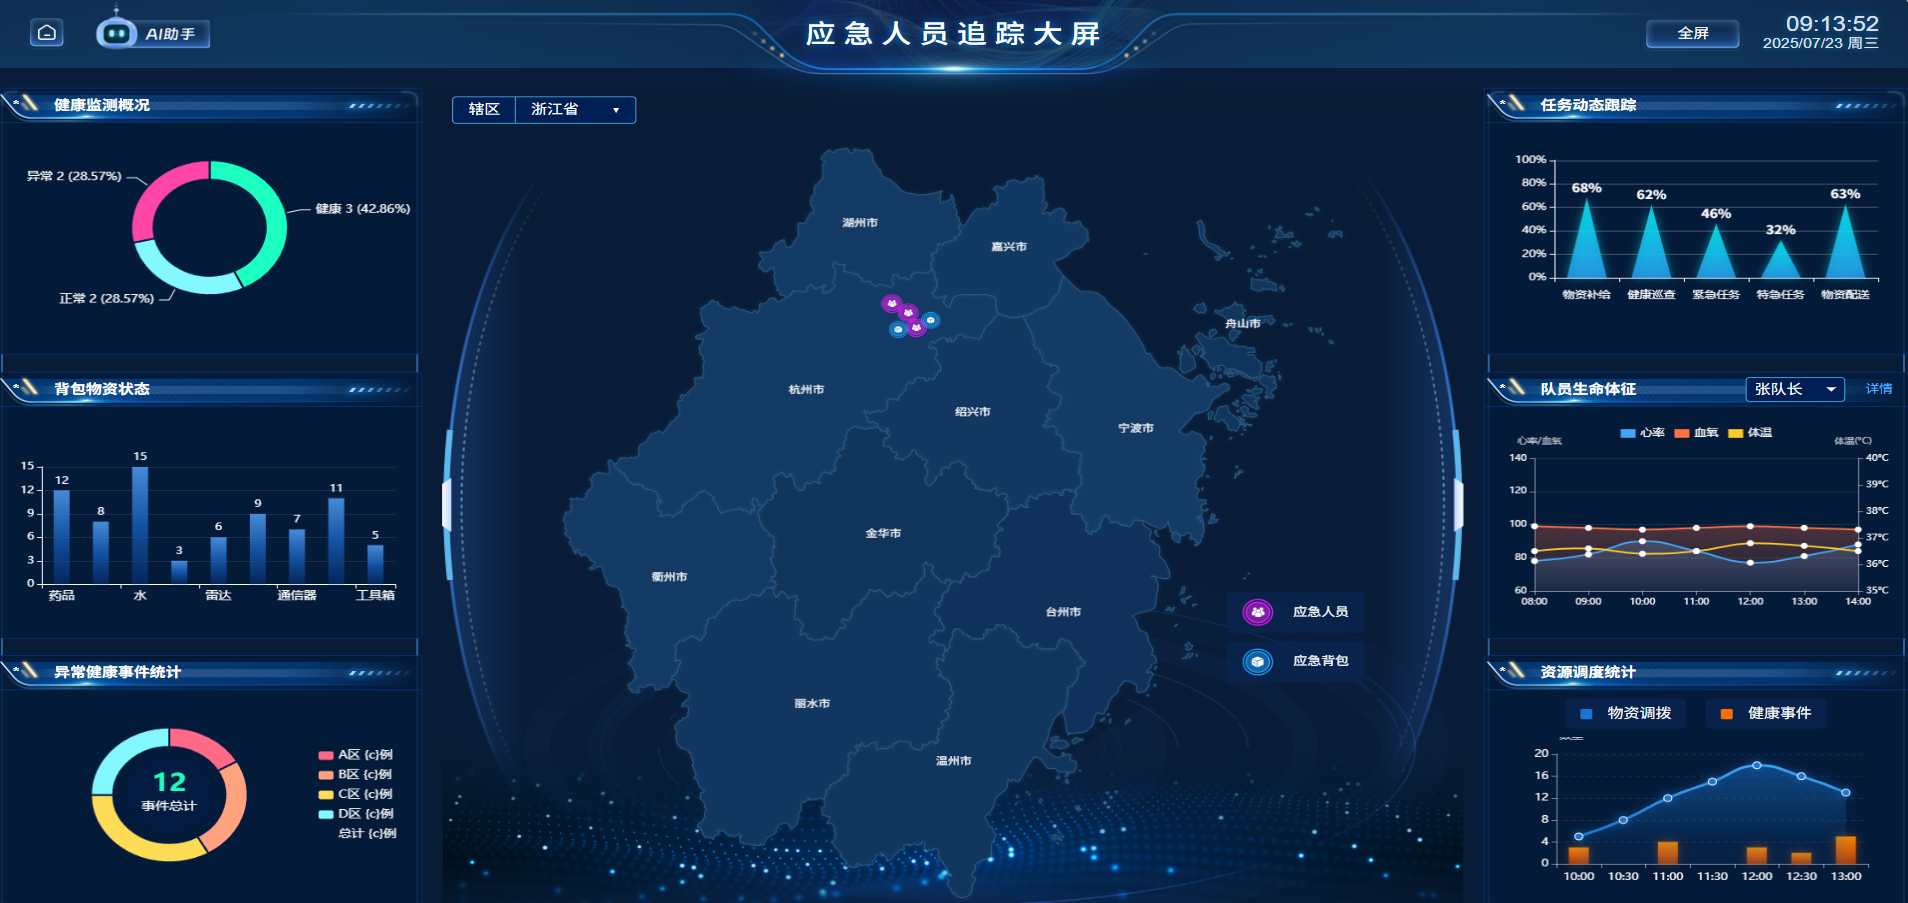
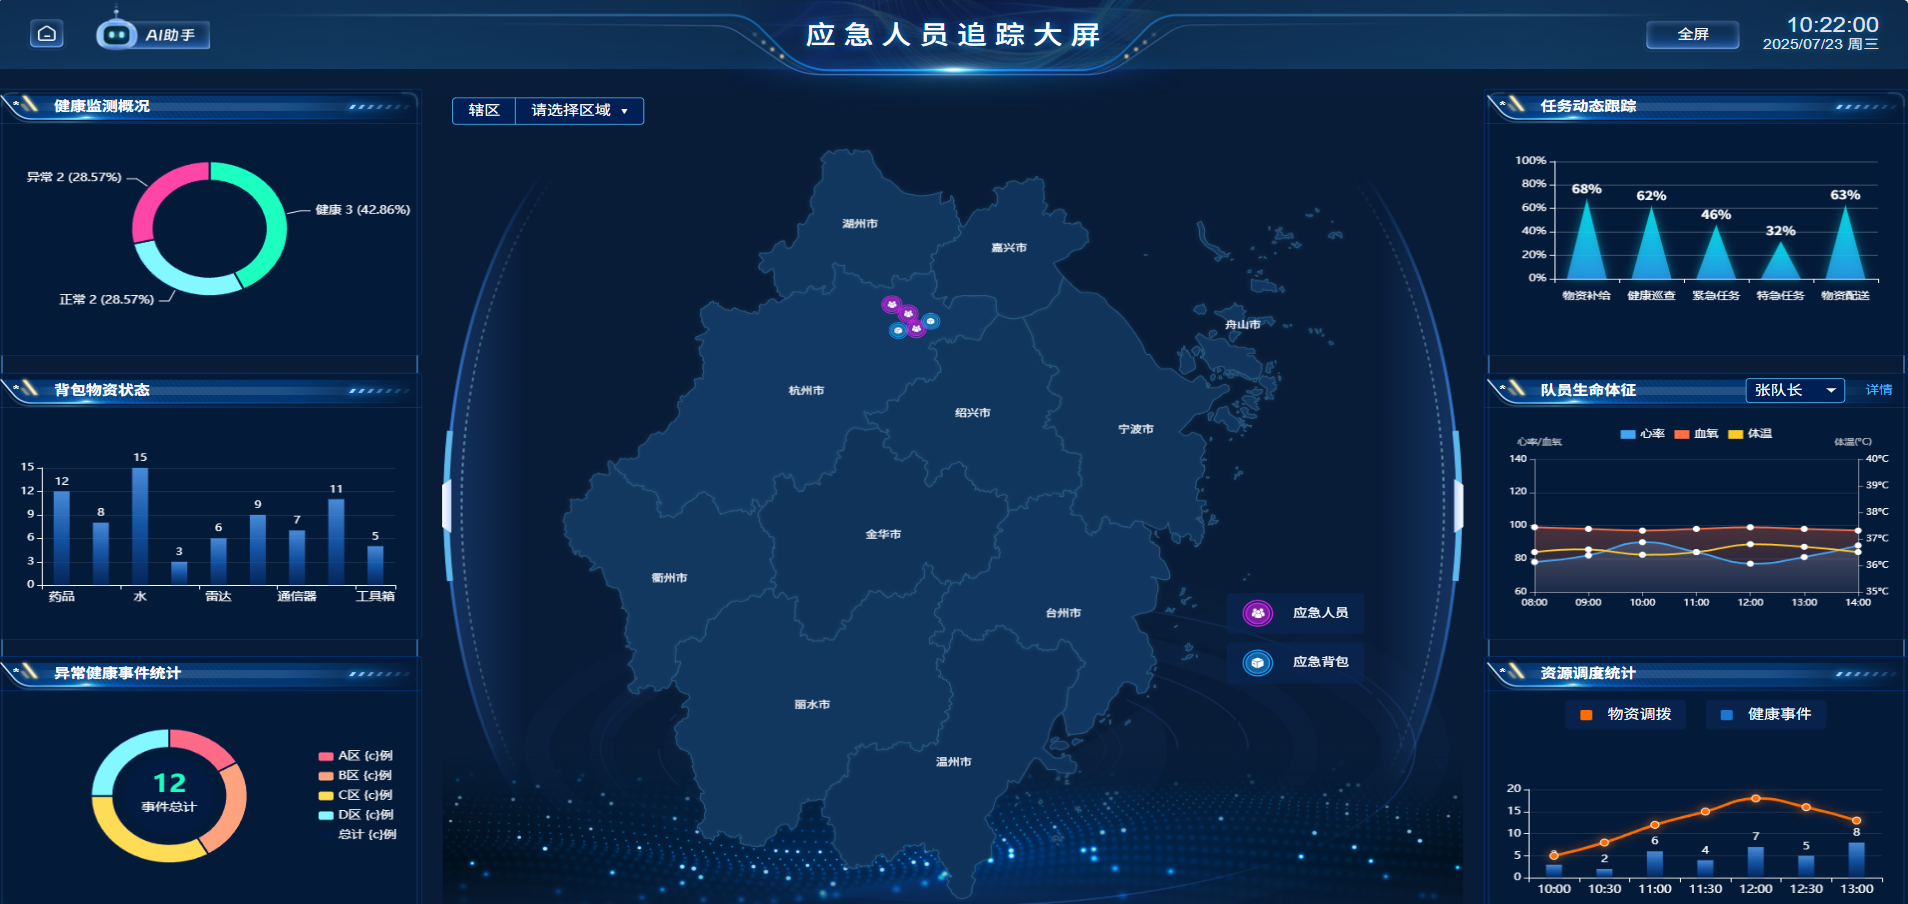
更新 VitalSignsModal 和 rightPanel 组件的样式与功能；在 rightPanel.scss 中增加黄色配色选项；替换截图。

diff --git a/src/views/components/rightPanel.vue b/src/views/components/rightPanel.vue
@@ -70,11 +70,11 @@
       <div class="chart-content">
         <div class="legend-info">
           <div class="legend-item">
-            <span class="legend-color blue"></span>
+            <span class="legend-color orange"></span>
             <span>物资调拨</span>
           </div>
           <div class="legend-item">
-            <span class="legend-color orange"></span>
+            <span class="legend-color blue"></span>
             <span>健康事件</span>
           </div>
         </div>
@@ -560,145 +560,87 @@ export default {
       if (this.$refs.resourceChart) {
         this.resourceChart = this.$echarts.init(this.$refs.resourceChart)
         const option = {
-          backgroundColor: 'transparent',
-          grid: {
-            top: 20,
-            left: 40,
-            right: 30,
-            bottom: 20,
-            containLabel: true
-          },
           tooltip: {
             trigger: 'axis',
             axisPointer: {
               type: 'shadow'
-            },
-            backgroundColor: 'rgba(0,19,52,0.8)',
-            borderColor: 'rgba(0,209,255,0.3)',
-            textStyle: {
-              color: '#fff'
-            },
-            formatter: function(params) {
-              let result = `${params[0].name}<br/>`;
-              params.forEach(param => {
-                let marker = `<span style="display:inline-block;margin-right:5px;border-radius:2px;width:10px;height:10px;background-color:${param.color};"></span>`;
-                result += `${marker} ${param.seriesName}: ${param.value}${param.seriesName === '健康事件' ? '个' : '批'}<br/>`;
-              });
-              return result;
             }
+          },
+          grid: {
+            left: '3%',
+            right: '4%',
+            bottom: '3%',
+            containLabel: true
           },
           xAxis: {
             type: 'category',
             data: ['10:00', '10:30', '11:00', '11:30', '12:00', '12:30', '13:00'],
             axisLine: {
               lineStyle: {
-                color: 'rgba(255, 255, 255, 0.5)'
+                color: '#ffffff'
               }
             },
             axisLabel: {
               color: '#ffffff',
-              fontSize: 12,
-              margin: 10
+              fontSize: 13
             }
           },
-          yAxis: [
-            {
-              type: 'value',
-              name: '数量',
-              nameTextStyle: {
-                color: 'rgba(255, 255, 255, 0.7)',
-                fontSize: 12,
-                padding: [0, 0, 0, 30]
-              },
-              min: 0,
-              max: 20,
-              interval: 4,
-              axisLine: {
-                lineStyle: {
-                  color: 'rgba(255, 255, 255, 0.5)'
-                }
-              },
-              axisLabel: {
-                color: '#ffffff',
-                fontSize: 12
-              },
-              splitLine: {
-                lineStyle: {
-                  color: 'rgba(255, 255, 255, 0.1)',
-                  type: 'dashed'
-                }
+          yAxis: {
+            type: 'value',
+            max: 20,
+            axisLine: {
+              lineStyle: {
+                color: '#ffffff'
               }
+            },
+            splitLine: {
+              lineStyle: {
+                color: 'rgba(255, 255, 255, 0.1)'
+              }
+            },
+            axisLabel: {
+              color: '#ffffff'
             }
-          ],
+          },
           series: [
             {
               name: '物资调拨',
               type: 'line',
-              z: 10,
               data: [5, 8, 12, 15, 18, 16, 13],
               smooth: true,
               symbol: 'circle',
               symbolSize: 8,
               itemStyle: {
-                color: '#1976d2',
+                color: '#ff6d00', // orange
                 borderColor: '#fff',
                 borderWidth: 1,
-                shadowColor: 'rgba(25, 118, 210, 0.8)',
+                shadowColor: 'rgba(255, 109, 0, 0.8)',
                 shadowBlur: 10
               },
               lineStyle: {
-                color: {
-                  type: 'linear',
-                  x: 0,
-                  y: 0,
-                  x2: 0,
-                  y2: 1,
-                  colorStops: [{
-                    offset: 0,
-                    color: '#42a5f5'
-                  }, {
-                    offset: 1,
-                    color: '#1976d2'
-                  }]
-                },
+                color: '#ff6d00',
                 width: 3,
-                shadowColor: 'rgba(25, 118, 210, 0.5)',
+                shadowColor: 'rgba(255, 109, 0, 0.5)',
                 shadowBlur: 10
               },
-              areaStyle: {
-                color: new this.$echarts.graphic.LinearGradient(0, 0, 0, 1, [
-                  { offset: 0, color: 'rgba(25, 118, 210, 0.6)' },
-                  { offset: 0.8, color: 'rgba(25, 118, 210, 0.1)' }
-                ]),
-                shadowColor: 'rgba(25, 118, 210, 0.2)',
-                shadowBlur: 20
-              }
+              // no areaStyle
             },
             {
               name: '健康事件',
               type: 'bar',
-              barWidth: '20px',
-              data: [3, 0, 4, 0, 3, 2, 5],
+              data: [3, 2, 6, 4, 7, 5, 8],
+              barWidth: '16px',
               itemStyle: {
                 color: new this.$echarts.graphic.LinearGradient(0, 0, 0, 1, [
-                  { offset: 0, color: 'rgba(255, 145, 0, 0.9)' },
-                  { offset: 0.5, color: 'rgba(255, 109, 0, 0.75)' },
-                  { offset: 1, color: 'rgba(230, 81, 0, 0.6)' }
-                ]),
-                borderRadius: [4, 4, 0, 0],
-                shadowColor: 'rgba(255, 109, 0, 0.5)',
-                shadowBlur: 10
+                  { offset: 0, color: 'rgba(88,167,255,0.8)' },
+                  { offset: 0.5, color: 'rgba(25,102,198,0.75)' },
+                  { offset: 1, color: 'rgba(6,45,110,0.64)' }
+                ])
               },
-              emphasis: {
-                itemStyle: {
-                  color: new this.$echarts.graphic.LinearGradient(0, 0, 0, 1, [
-                    { offset: 0, color: 'rgba(255, 145, 0, 1)' },
-                    { offset: 0.5, color: 'rgba(255, 109, 0, 0.85)' },
-                    { offset: 1, color: 'rgba(230, 81, 0, 0.7)' }
-                  ]),
-                  shadowColor: 'rgba(255, 109, 0, 0.8)',
-                  shadowBlur: 20
-                }
+              label: {
+                show: true,
+                position: 'top',
+                color: '#ffffff'
               }
             }
           ]

diff --git a/src/assets/scss/vitalSignsModal.scss b/src/assets/scss/vitalSignsModal.scss
@@ -24,14 +24,14 @@
       max-width: 900px;
       max-height: 80vh;
       background: #ffffff;
-      border: 1px solid rgba(0, 209, 255, 0.5);
-      border-radius: 8px;
-      box-shadow: 0 0 20px rgba(0, 209, 255, 0.3);
+      border-radius: 16px; // 优化圆角
+      box-shadow: 0 8px 32px rgba(36, 124, 183, 0.15); // 添加阴影
       position: relative;
       z-index: 1001;
       display: flex;
       flex-direction: column;
       overflow: hidden;
+      border: 1.5px solid #247CB7; // 增加边框
     }
     
     .modal-header {
@@ -39,8 +39,6 @@
       justify-content: space-between;
       align-items: center;
       padding: 15px 20px;
-      border-bottom: 1px solid rgba(0, 209, 255, 0.3);
-      background: #f5f5f5;
       
       .modal-title {
         color: #333333;
@@ -103,11 +101,15 @@
         .vital-signs-table {
           width: 100%;
           border-collapse: collapse;
+          background: #fafdff; // 优化表格背景
+          border-radius: 8px;
+          overflow: hidden;
+          box-shadow: 0 2px 8px rgba(36, 124, 183, 0.08);
           
           th, td {
-            padding: 12px 15px;
+            padding: 14px 18px; // 增大间距
             text-align: center;
-            border-bottom: 1px solid rgba(0, 0, 0, 0.1);
+            border-bottom: 1px solid rgba(0, 0, 0, 0.07);
           }
           
           th {
@@ -119,27 +121,38 @@
           
           td {
             color: #333333;
-            font-size: 14px;
+            font-size: 15px;
           }
           
           tr:hover td {
-            background: rgba(0, 0, 0, 0.05);
+            background: #eaf6fd;
           }
           
           .normal {
             color: #4caf50;
+            font-weight: bold;
           }
           
           .below-normal {
             color: #2196f3;
+            font-weight: bold;
           }
           
           .above-normal {
             color: #ff5722;
+            font-weight: bold;
           }
           
           .warning {
             color: #ff5722;
+            font-weight: bold;
+          }
+
+          .no-data {
+            font-size: 16px;
+            text-align: center;
+            padding: 40px 0;
+            background: none;
           }
         }
       }
@@ -149,7 +162,6 @@
       padding: 15px 20px;
       display: flex;
       justify-content: flex-end;
-      border-top: 1px solid rgba(0, 209, 255, 0.3);
       background: #f5f5f5;
       
       .btn-close {

diff --git a/src/components/VitalSignsModal.vue b/src/components/VitalSignsModal.vue
@@ -28,14 +28,21 @@
               </tr>
             </thead>
             <tbody>
-              <tr v-for="person in filteredPersonnel" :key="person.id">
-                <td>{{ person.name }}</td>
-                <td :class="getVitalClass(person.heartRate, 'heartRate')">{{ person.heartRate }}</td>
-                <td :class="getVitalClass(person.oxygen, 'oxygen')">{{ person.oxygen }}</td>
-                <td :class="getVitalClass(person.temperature, 'temperature')">{{ person.temperature }}</td>
-                <td :class="person.status === '正常' ? 'normal' : 'warning'">{{ person.status }}</td>
-                <td>{{ person.updateTime }}</td>
-              </tr>
+              <template v-if="filteredPersonnel.length === 0">
+                <tr>
+                  <td colspan="6" class="no-data">暂无生命体征详情</td>
+                </tr>
+              </template>
+              <template v-else>
+                <tr v-for="person in filteredPersonnel" :key="person.id">
+                  <td>{{ person.name }}</td>
+                  <td :class="getVitalClass(person.heartRate, 'heartRate')">{{ person.heartRate }}</td>
+                  <td :class="getVitalClass(person.oxygen, 'oxygen')">{{ person.oxygen }}</td>
+                  <td :class="getVitalClass(person.temperature, 'temperature')">{{ person.temperature }}</td>
+                  <td :class="person.status === '正常' ? 'normal' : 'warning'">{{ person.status }}</td>
+                  <td>{{ person.updateTime }}</td>
+                </tr>
+              </template>
             </tbody>
           </table>
         </div>
@@ -98,4 +105,7 @@ export default {
 <style lang="scss" scoped>
 @use '../assets/scss/vitalSignsModal.scss';
 
+.vital-signs-modal {
+  // 可在此处添加局部样式优化
+}
 </style> 

diff --git a/src/assets/scss/rightPanel.scss b/src/assets/scss/rightPanel.scss
@@ -241,7 +241,9 @@
           &.blue {
             background-color: #1976d2;
           }
-          
+          &.yellow {
+            background-color: #FFC837;
+          }
           &.orange {
             background-color: #ff6d00;
           }
